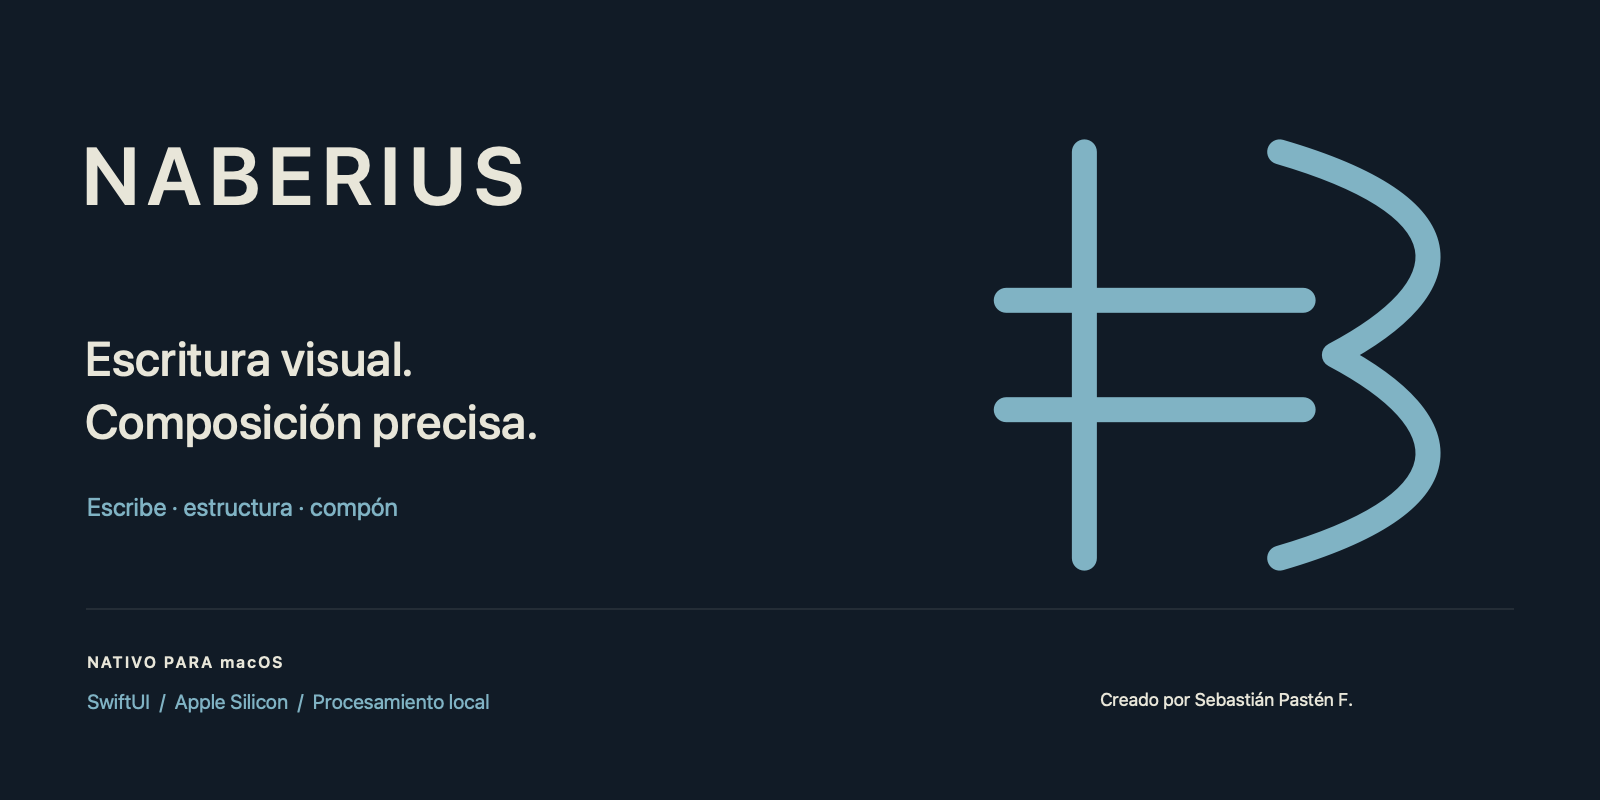
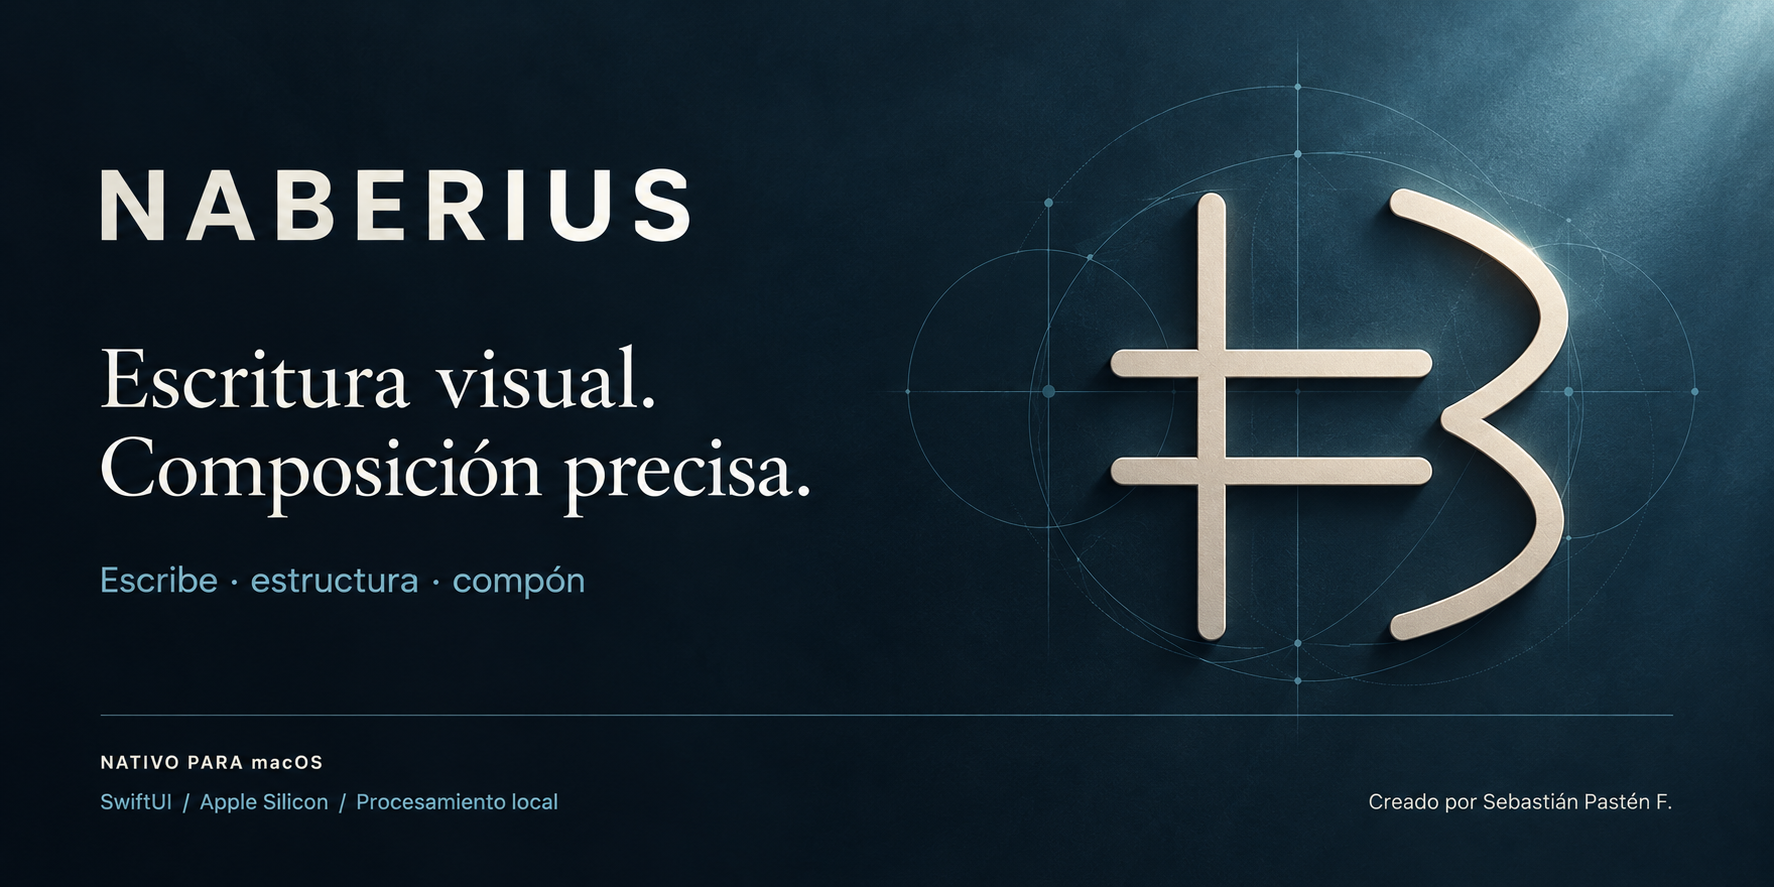
Refine cover with editorial typography and dimensional brand artwork

diff --git a/script/make_cover_reference.swift b/script/make_cover_reference.swift
@@ -3,7 +3,7 @@ import Foundation
 import ImageIO
 import UniformTypeIdentifiers
 
-// Reproduce the family's cover layout with Naberius's existing, unaltered seal.
+// Reproduce the geometric reference used to art-direct the final image-generated cover.
 let root = URL(fileURLWithPath: FileManager.default.currentDirectoryPath)
 let output = root.appendingPathComponent("docs/assets/brand", isDirectory: true)
 try FileManager.default.createDirectory(at: output, withIntermediateDirectories: true)
@@ -51,8 +51,8 @@ text("NATIVO PARA macOS", x: 87, y: 128, size: 16, weight: .semibold, color: ivo
 text("SwiftUI  /  Apple Silicon  /  Procesamiento local", x: 87, y: 86, size: 20, weight: .regular, color: teal)
 text("Creado por Sebastián Pastén F.", x: 1100, y: 90, size: 18, weight: .regular, color: ivory)
 NSGraphicsContext.restoreGraphicsState()
-let destination = CGImageDestinationCreateWithURL(output.appendingPathComponent("cover.png") as CFURL, UTType.png.identifier as CFString, 1, nil)!
-let origin = "Naberius geometric cover. Generated by script/make_cover.swift from the original Naberius seal. Layout reference: METATRON family cover. Native AppKit rendering, 1600x800."
+let destination = CGImageDestinationCreateWithURL(output.appendingPathComponent("cover-reference.png") as CFURL, UTType.png.identifier as CFString, 1, nil)!
+let origin = "Naberius geometric cover reference. Generated by script/make_cover_reference.swift from the original Naberius seal. Layout reference: METATRON family cover. Native AppKit rendering, 1600x800."
 CGImageDestinationAddImage(destination, rep.cgImage!, [kCGImagePropertyPNGDictionary: [kCGImagePropertyPNGDescription: origin]] as CFDictionary)
 guard CGImageDestinationFinalize(destination) else { throw NSError(domain: "NaberiusCover", code: 1) }
-print(output.appendingPathComponent("cover.png").path)
+print(output.appendingPathComponent("cover-reference.png").path)

diff --git a/docs/PRESENTATION.md b/docs/PRESENTATION.md
@@ -18,13 +18,17 @@ La composición del PDF requiere Tectonic instalado por separado. La versión en
 
 ## Portada gráfica del repositorio
 
-![Naberius — portada geométrica](assets/brand/cover.png)
+![Naberius — portada editorial con sello en relieve](assets/brand/cover.jpg)
 
-La portada principal del README sigue la referencia de METATRON aportada por el autor: formato 2:1, fondo navy, nombre y lema a la izquierda, sello original de Naberius a la derecha, divisor y pie con plataforma y autoría. Usa las tintas de la familia y conserva la geometría simplificada del sello.
+La portada principal conserva el formato 2:1 y la identidad de METATRON: nombre y lema a la izquierda, sello de Naberius a la derecha, divisor y pie con plataforma y autoría. El fondo petróleo tiene iluminación suave y una textura discreta; el sello se presenta en marfil con relieve, acompañado por líneas geométricas tenues. El nombre conserva la voz sans serif de la familia y el lema adopta una serif académica. El icono de la aplicación permanece intacto.
 
-- [PNG de portada](assets/brand/cover.png): 1600 × 800.
-- [Generador nativo reproducible](../script/make_cover.swift): ejecutar `xcrun swift script/make_cover.swift` desde la raíz del repositorio.
-- Renderizado con AppKit, tipografía del sistema y geometría original. La referencia de METATRON se consulta sin copiar su símbolo ni modificar su proyecto.
+- [JPEG de portada](assets/brand/cover.jpg): 1774 × 887, proporción 2:1, versión ligera utilizada en el README.
+- [PNG original](assets/brand/cover.png): imagen de generación con las mismas dimensiones. La conversión a JPEG usa calidad 95 y conserva la composición.
+- [Prompt y referencias](assets/brand/cover-prompt.txt): dirección artística completa de la imagen generada con image_gen.
+- [Base geométrica](assets/brand/cover-reference.png): referencia de 1600 × 800 con la geometría original.
+- [Generador nativo de la referencia](../script/make_cover_reference.swift): ejecutar `xcrun swift script/make_cover_reference.swift` desde la raíz del repositorio. Produce solo la referencia plana; la portada final procede de la generación artística documentada.
+
+La nueva imagen se generó tomando como referencias la base nativa, la portada de METATRON y el icono existente. La referencia de METATRON se consulta sin redistribuirla ni modificar su proyecto. El prompt se incorpora también como procedencia en el PNG final.
 
 ## Fotografía para la web y la sección de capacidades
 

diff --git a/README.md b/README.md
@@ -12,7 +12,7 @@
   <p><a href="https://github.com/AD0441/NABERIUS/releases/tag/v0.5.0">Descargar</a> · <a href="#qué-hacemos-y-qué-hacemos-mejor">Capacidades</a> · <a href="#en-uso">En uso</a> · <a href="#tres-formas-de-trabajar">Vistas</a> · <a href="#empezar">Empezar</a> · <a href="CONTRIBUTING.md">Contribuir</a> · <a href="https://ko-fi.com/C0C51WQ1T0">Apoyar</a></p>
 </div>
 
-![Naberius — escritura visual, composición precisa e identidad geométrica original](docs/assets/brand/cover.png)
+![Naberius — portada editorial en azul petróleo, tipografía académica y sello en relieve](docs/assets/brand/cover.jpg)
 
 **NABERIUS** reúne escritura estructurada, ecuaciones, tablas y bibliografía en un espacio de trabajo para artículos, tesis e informes. Escribe visualmente y revisa el PDF que compone **LaTeX mediante Tectonic**. Contenido, imágenes, plantilla y referencias viajan juntos en un archivo portable `.nab`.
 
@@ -146,7 +146,7 @@ Los aportes voluntarios ayudan a mantener el desarrollo y las pruebas de Naberiu
 
 ## Identidad y licencia
 
-El sello simplificado de Naberius conserva el azul profundo y el marfil de la familia. Su geometría original combina un asta, dos barras y una curva abierta. Se incluyen SVG, PNG, ICNS y los generadores reproducibles de [iconos](script/make_brand.swift) y [portada](script/make_cover.swift). [Criterios de identidad](docs/BRAND.md) · [Procedencia de la portada](docs/PRESENTATION.md).
+El sello simplificado de Naberius conserva el azul profundo y el marfil de la familia. Su geometría original combina un asta, dos barras y una curva abierta. Se incluyen SVG, PNG, ICNS, el [generador de iconos](script/make_brand.swift), la [base geométrica de la portada](script/make_cover_reference.swift) y su [dirección artística](docs/assets/brand/cover-prompt.txt). [Criterios de identidad](docs/BRAND.md) · [Procedencia de la portada](docs/PRESENTATION.md).
 
 Código propio: **AGPL-3.0-or-later**, copyright 2026 Sebastián Pastén F. Los componentes de terceros conservan sus licencias: [avisos](THIRD_PARTY_NOTICES.md), [licencia](LICENSE) y [autoría](COPYRIGHT). citeproc-js se utiliza bajo su opción AGPL; las fuentes Latin Modern conservan GUST y los estilos/locales CSL, CC BY-SA.
 
